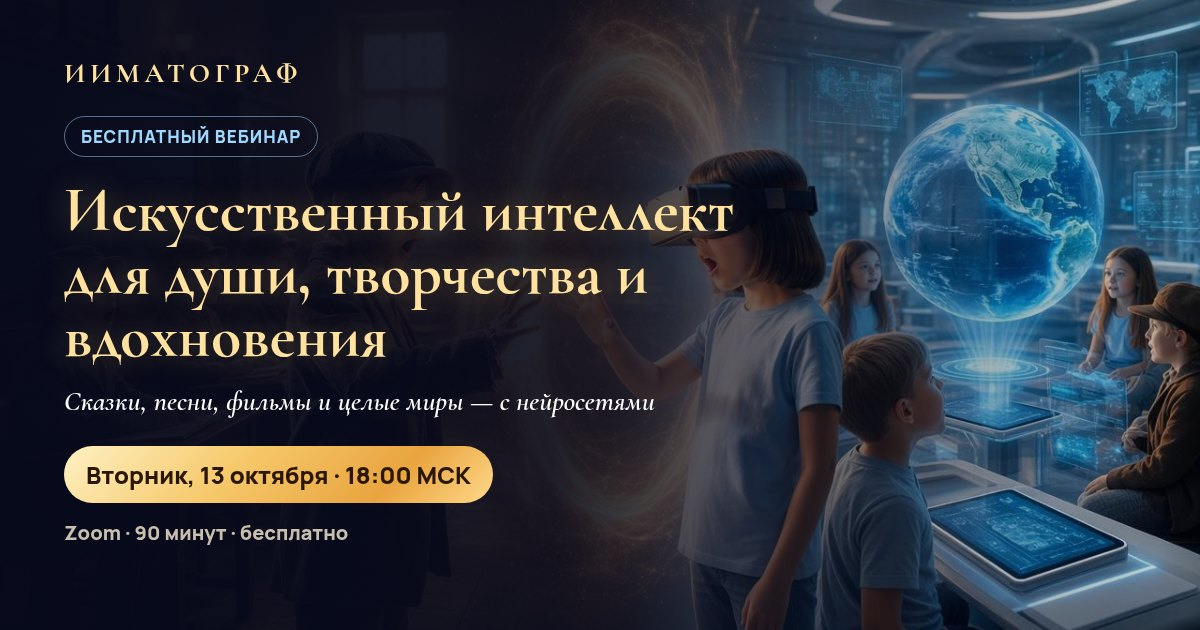
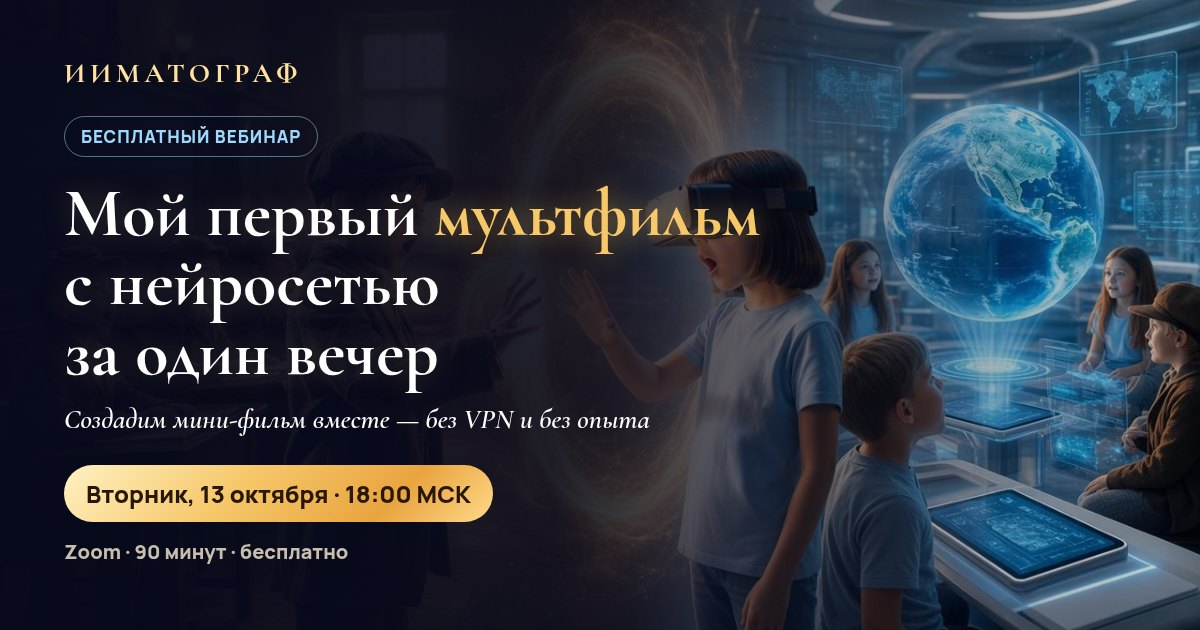
Новый заголовок

Changed region(s): [[0.0308, 0.3016, 0.6475, 0.9048]]

diff --git a/index.html b/index.html
@@ -3,8 +3,8 @@
 <head>
 <meta charset="utf-8">
 <meta name="viewport" content="width=device-width, initial-scale=1, viewport-fit=cover">
-<title>Бесплатный вебинар «Искусственный интеллект для души, творчества и вдохновения» — 13 октября, 18:00 МСК | ИИМАТОГРАФ</title>
-<meta name="description" content="Бесплатный вебинар 13 октября в 18:00 МСК: за 90 минут на ваших глазах идея превращается в сказку, иллюстрации, анимацию, музыку и мини-фильм. Подарок за регистрацию — гайд «Мой первый мультфильм с нейросетью за один вечер».">
+<title>Вебинар «Мой первый мультфильм с нейросетью за один вечер» — 13 октября, 18:00 МСК | ИИМАТОГРАФ</title>
+<meta name="description" content="Бесплатный вебинар 13 октября в 18:00 МСК: за 90 минут на ваших глазах идея превращается в сказку, иллюстрации, анимацию, музыку и мини-фильм. Без VPN и без опыта. Подарок за регистрацию — гайд-шпаргалка «7 шагов без VPN и без опыта».">
 <meta name="theme-color" content="#070a1c">
 <link rel="canonical" href="https://kan7739684-max.github.io/show-1310/">
 <link rel="icon" href="favicon.ico" sizes="any">
@@ -15,12 +15,12 @@
 <meta property="og:locale" content="ru_RU">
 <meta property="og:site_name" content="ИИМАТОГРАФ">
 <meta property="og:url" content="https://kan7739684-max.github.io/show-1310/">
-<meta property="og:title" content="Искусственный интеллект для души, творчества и вдохновения — бесплатный вебинар 13 октября">
-<meta property="og:description" content="Как создавать сказки, песни, фильмы и целые миры с помощью нейросетей. Вт, 13 октября, 18:00 МСК, Zoom, 90 минут, бесплатно.">
+<meta property="og:title" content="Мой первый мультфильм с нейросетью за один вечер — бесплатный вебинар 13 октября">
+<meta property="og:description" content="Создадим мини-фильм вместе — без VPN и без опыта. Вт, 13 октября, 18:00 МСК, Zoom, 90 минут, бесплатно.">
 <meta property="og:image" content="https://kan7739684-max.github.io/show-1310/og-image.jpg">
 <meta property="og:image:width" content="1200">
 <meta property="og:image:height" content="630">
-<meta property="og:image:alt" content="Бесплатный вебинар «Искусственный интеллект для души, творчества и вдохновения», 13 октября, 18:00 МСК">
+<meta property="og:image:alt" content="Бесплатный вебинар «Мой первый мультфильм с нейросетью за один вечер», 13 октября, 18:00 МСК">
 <meta name="twitter:card" content="summary_large_image">
 <meta name="twitter:image" content="https://kan7739684-max.github.io/show-1310/og-image.jpg">
 <link rel="preconnect" href="https://fonts.googleapis.com">
@@ -73,14 +73,14 @@
 
 <section class="hero" id="b1">
   <div class="wrap">
-    <span class="eyebrow reveal">Бесплатный вебинар · «Союз&nbsp;ИИМАТОГРАФИСТОВ»</span>
-    <h1 class="reveal">Искусственный интеллект для души, творчества и&nbsp;вдохновения</h1>
-    <p class="hero-lead reveal">Как создавать сказки, песни, фильмы и целые миры с помощью нейросетей</p>
+    <span class="eyebrow reveal">«Союз&nbsp;ИИМАТОГРАФИСТОВ» приглашает</span>
+    <h1 class="reveal">Мой первый <span class="hl">мультфильм</span> с&nbsp;нейросетью за&nbsp;один&nbsp;вечер</h1>
+    <p class="hero-lead reveal">Бесплатный вебинар: создадим <span class="nw">мини-фильм</span> вместе — <span class="nw">без VPN и&nbsp;без опыта</span></p>
     <p class="hero-sub reveal">За 90 минут на ваших глазах идея из чата превратится в настоящий мини-фильм. Героя придумаете вы, а ваше имя появится в титрах.</p>
     <div class="reveal"><span class="date-badge"><span class="dot"></span><svg><use href="#i-cal"/></svg>Вторник, 13 октября · 18:00–19:30 МСК</span></div>
     <ul class="chips reveal"><li>Бесплатно</li><li>Zoom</li><li>90 минут</li></ul>
     <div class="actions reveal"><a class="btn" href="#forma" data-reg data-goal="show_reg_click">Зарегистрироваться бесплатно<svg><use href="#i-arrow"/></svg></a></div>
-    <div class="reveal"><p class="gift-note"><svg width="26" height="26" style="color:var(--gold-2);flex:none"><use href="#i-gift"/></svg><span>Сразу после регистрации — подарок: гайд <b>«Мой первый мультфильм с нейросетью за один вечер»</b></span></p></div>
+    <div class="reveal"><p class="gift-note"><svg width="26" height="26" style="color:var(--gold-2);flex:none"><use href="#i-gift"/></svg><span>Сразу после регистрации — подарок: <b>гайд-шпаргалка «7&nbsp;шагов без&nbsp;VPN и&nbsp;без&nbsp;опыта»</b></span></p></div>
     <div class="countdown reveal" id="countdown" aria-label="До начала вебинара">
       <div><b id="cd-d">9</b><span>дней</span></div><div><b id="cd-h">06</b><span>часов</span></div><div><b id="cd-m">27</b><span>минут</span></div>
     </div>
@@ -158,10 +158,10 @@
     </div>
     <div class="gifts">
       <article class="gift main reveal">
-        <img src="img/guide_cover.jpg" alt="Обложка гайда «Мой первый мультфильм с нейросетью за один вечер»" loading="lazy">
+        <img src="img/guide_cover.jpg" alt="Обложка гайда-шпаргалки: 7 шагов без VPN и без опыта" loading="lazy">
         <div>
           <span class="tag">Сразу после регистрации</span>
-          <h3>Гайд «Мой первый мультфильм с нейросетью за один вечер»</h3>
+          <h3>Гайд-шпаргалка «7 шагов без VPN и без опыта»</h3>
           <ul>
             <li>7 шагов от идеи до премьеры — без VPN и без опыта;</li>
             <li>готовый запрос для нейросети на каждом шаге;</li>
@@ -169,7 +169,7 @@
           </ul>
         </div>
       </article>
-      <article class="gift reveal"><div class="cert"><div><small>Сертификат</small>участника творческого вебинара<br>«Искусственный интеллект для души, творчества и вдохновения»<small style="margin-top:6px">13 октября 2026</small></div></div><span class="tag ice">После эфира</span><h3>Сертификат участника вебинара</h3><p>Пришлём на почту после эфира.</p></article>
+      <article class="gift reveal"><div class="cert"><div><small>Сертификат</small>участника вебинара<br>«Мой первый мультфильм с нейросетью за один вечер»<small style="margin-top:6px">13 октября 2026</small></div></div><span class="tag ice">После эфира</span><h3>Сертификат участника вебинара</h3><p>Пришлём на почту после эфира.</p></article>
       <article class="gift reveal"><div class="titles"><div><em>В титрах</em>Ваше имя<br>и имена зрителей из чата</div></div><span class="tag">Во время вебинара</span><h3>Ваше имя в титрах</h3><p>Пишите в чат во время вебинара — и станьте соавтором фильма.</p></article>
       <article class="gift reveal"><div class="titles" style="background:url(img/vimeo_1.jpg) center/cover"><div style="background:rgba(0,0,0,.55);padding:8px 14px;border-radius:12px"><em>Запись</em>Посмотреть ещё раз</div></div><span class="tag ice">Всем зарегистрированным</span><h3>Запись вебинара</h3><p>Пришлём всем зарегистрированным, она будет доступна до 16 октября.</p></article>
     </div>

diff --git a/spasibo.html b/spasibo.html
@@ -2,7 +2,7 @@
 <html lang="ru"><head><meta charset="utf-8"><meta name="viewport" content="width=device-width, initial-scale=1">
 <title>Вы зарегистрированы на вебинар 13 октября | ИИМАТОГРАФ</title>
 <link rel="stylesheet" href="https://fonts.googleapis.com/css2?family=Cormorant+Garamond:ital,wght@0,600;0,700;1,600&family=Manrope:wght@400;600;700;800&display=swap&subset=cyrillic">
-<meta name="description" content="Регистрация на бесплатный вебинар «Искусственный интеллект для души, творчества и вдохновения» 13 октября, 18:00 МСК. Скачайте гайд, подпишитесь на каналы и добавьте вебинар в календарь.">
+<meta name="description" content="Регистрация на бесплатный вебинар «Мой первый мультфильм с нейросетью за один вечер» 13 октября, 18:00 МСК. Скачайте гайд, подпишитесь на каналы и добавьте вебинар в календарь.">
 <meta name="robots" content="noindex">
 <meta name="theme-color" content="#070a1c">
 <link rel="icon" href="favicon.ico" sizes="any">
@@ -35,10 +35,10 @@
 <main class="thx"><div class="wrap">
   <span class="eyebrow">Регистрация прошла успешно</span>
   <h1>Вы зарегистрированы на вебинар! 🎬</h1>
-  <p class="lead">«Искусственный интеллект для души, творчества и вдохновения» — вторник, 13 октября, 18:00 МСК, Zoom.</p>
+  <p class="lead">«Мой первый мультфильм с нейросетью за один вечер» — вторник, 13 октября, 18:00 МСК, Zoom.</p>
   <ol class="tsteps">
     <li><h3>Ссылка на эфир</h3><p>Ссылку на Zoom пришлём на почту и в <a class="link-gold" href="https://t.me/+AKOOHI-GBakxNzUy" target="_blank" rel="noopener">Telegram-канал</a> до 13 октября. Если письма нет, загляните в «Спам» и «Промоакции».</p></li>
-    <li><h3>Заберите подарок прямо сейчас</h3><p>Гайд «Мой первый мультфильм с нейросетью за один вечер».</p><p style="margin-top:12px"><a class="btn" style="padding:14px 26px;font-size:1rem" href="gaid.pdf" download="Gaid_Moy_pervyy_multfilm.pdf">Скачать гайд (PDF)</a></p></li>
+    <li><h3>Заберите подарок прямо сейчас</h3><p>Гайд-шпаргалка: 7 шагов от идеи до премьеры — без VPN и без опыта.</p><p style="margin-top:12px"><a class="btn" style="padding:14px 26px;font-size:1rem" href="gaid.pdf" download="Gaid_Moy_pervyy_multfilm.pdf">Скачать гайд (PDF)</a></p></li>
     <li><h3>Подпишитесь, чтобы не пропустить эфир</h3><p>Напомним о вебинаре, а перед эфиром дадим мини-задание: придумайте героя для нашей сказки.</p>
       <div class="socials"><a class="soc tg" href="https://t.me/+AKOOHI-GBakxNzUy" target="_blank" rel="noopener">Telegram</a><a class="soc vk" href="https://vk.ru/kino_pritchi" target="_blank" rel="noopener">ВКонтакте</a><a class="soc max" href="https://max.ru/join/v24cNRBgyVcJ0jRERlIljtIofo5lcW4U6NdD8YJnHGo" target="_blank" rel="noopener">MAX</a></div><p style="margin-top:14px">Отзывы педагогов: <a class="link-gold" href="https://youtube.com/shorts/ALOI1r8Axno" target="_blank" rel="noopener">видео 1</a> · <a class="link-gold" href="https://youtube.com/shorts/0h6yJG08rAQ" target="_blank" rel="noopener">видео 2</a></p></li>
     <li><h3>Добавьте вебинар в календарь</h3><p>Вторник, 13 октября, 18:00–19:30 МСК. Сбор гостей с 17:50.</p><p style="margin-top:12px"><a class="link-gold" href="show-1310.ics" download>Добавить в календарь (.ics)</a></p></li>
